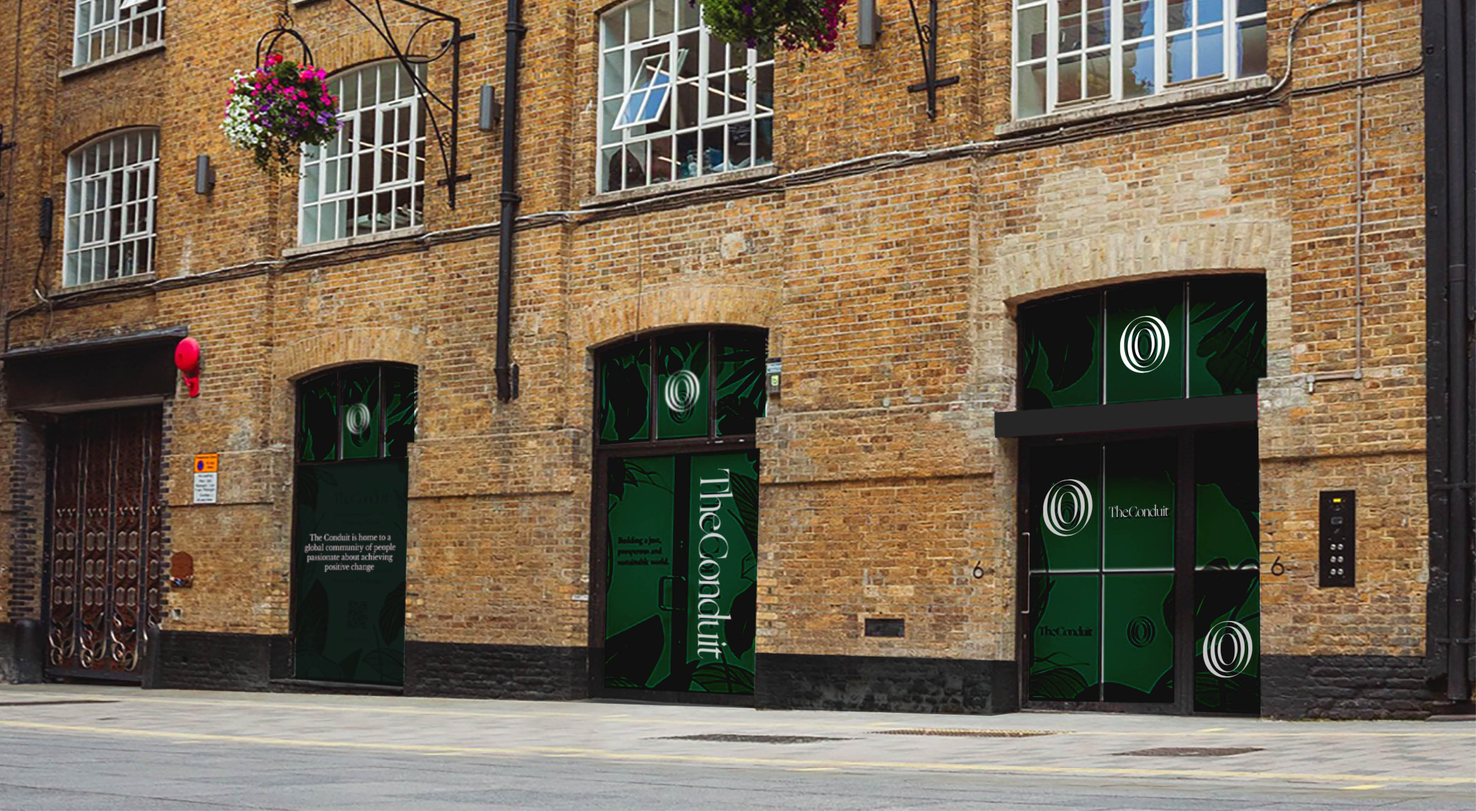
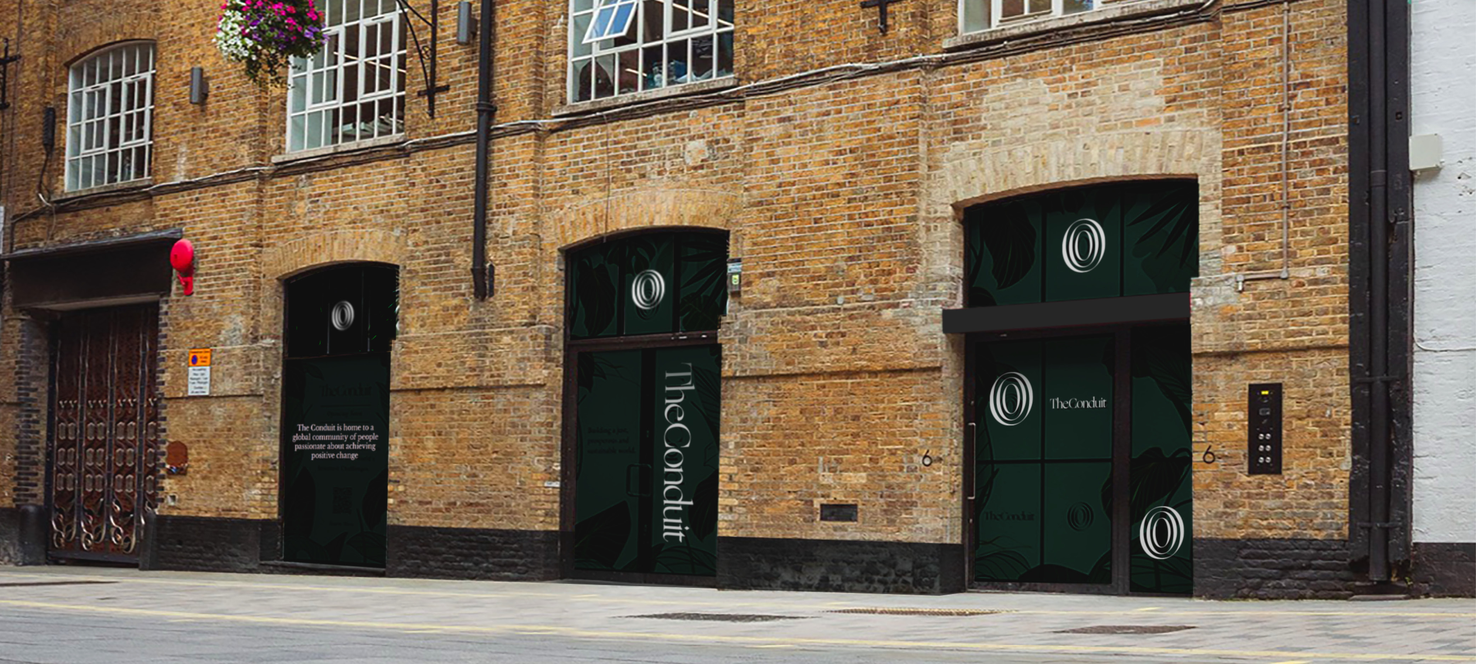
Conduit 3

diff --git a/details/Conduit.html b/details/Conduit.html
@@ -158,7 +158,9 @@
       <div id="ajax-detail">
         <!-- BEGIN your content here -->
 
-
+        <div class="grid-100">
+          <img src="../images/detail/Conduit/gavinvanrood_The Conduit .jpg" />
+        </div>
                 <div class="grid-50">
                   <img src="../images/detail/Conduit/gavinvanrood_The Conduit 3.jpg" />
                 </div>
